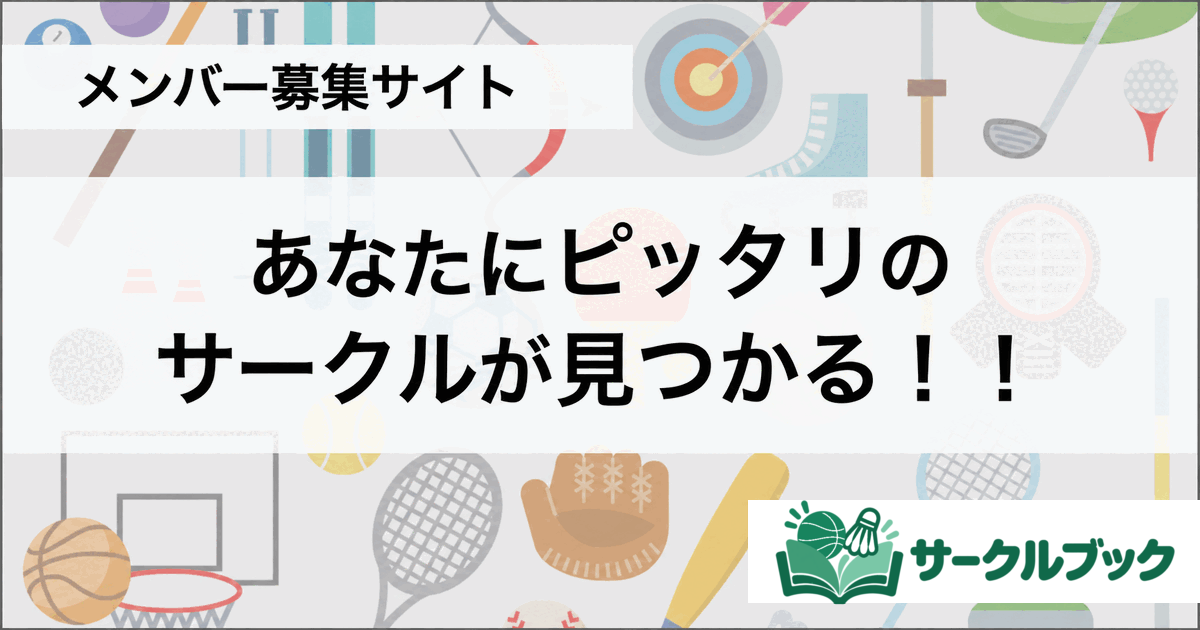
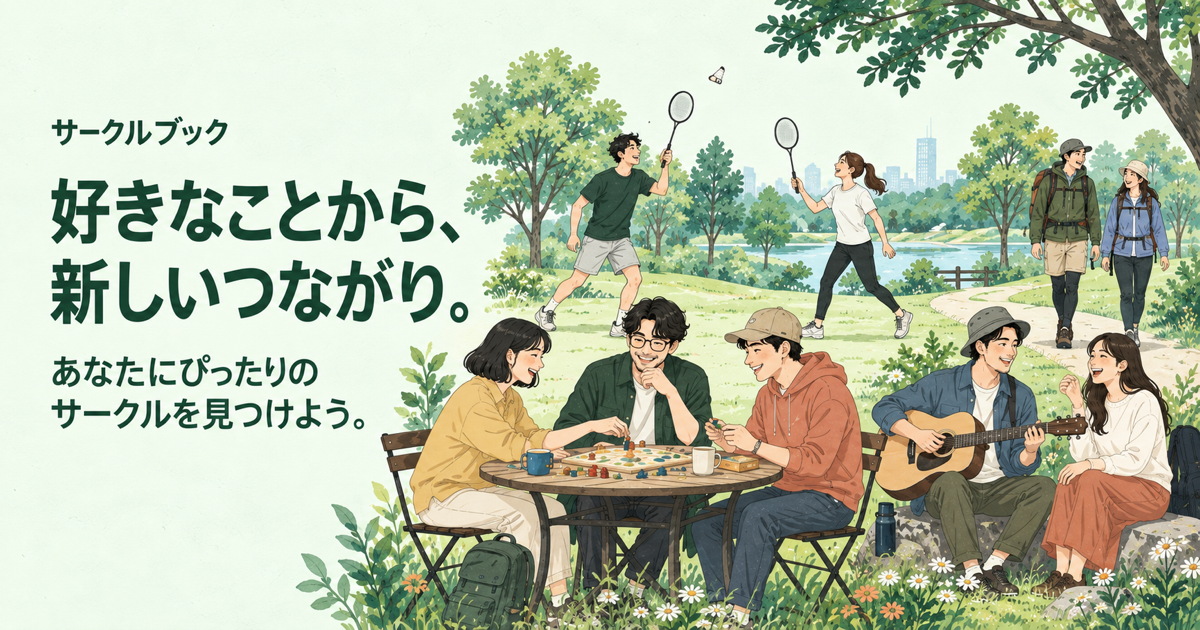
トップのファーストビューと共通OGP画像を更新する

diff --git a/app/assets/stylesheets/_home_portal.scss b/app/assets/stylesheets/_home_portal.scss
@@ -4,10 +4,15 @@
   padding: 24px 16px 48px;
   color: $cb-text;
   &__container { max-width: 1200px; margin: 0 auto; }
-  &__hero { padding: 12px 0 24px; text-align: center; }
-  &__hero h1 { font-size: clamp(24px, 4vw, 36px); line-height: 1.4; font-weight: 700; margin: 8px 0 12px; }
-  &__hero p { color: $cb-muted; font-size: 14px; line-height: 1.7; margin: 0; }
-  &__hero .home-portal__eyebrow { color: $cb-action-hover; font-weight: 700; }
+  &__hero { position: relative; height: clamp(440px, 125vw, 480px); overflow: hidden; margin: 0 0 24px; border-radius: 16px; background: #f0f8ed; text-align: center; }
+  &__hero-art { position: absolute; inset: 0; display: block; pointer-events: none; }
+  &__hero-art img { position: absolute; bottom: 0; left: 0; display: block; width: 100%; height: auto; }
+  &__hero-copy { position: relative; z-index: 1; max-width: 360px; margin: 0 auto; padding: 20px 16px; }
+  &__hero h1 { color: #214c38; font-size: 26px; line-height: 1.4; font-weight: 700; margin: 0 0 10px; }
+  &__hero p { color: #365647; font-size: 13px; line-height: 1.7; margin: 0; }
+  &__hero-search { display: inline-flex; align-items: center; justify-content: center; gap: 8px; min-height: 44px; margin-top: 14px; padding: 10px 22px; border-radius: 8px; background: $cb-action; color: white; font-size: 15px; font-weight: 700; }
+  &__hero-search svg { width: 18px; height: 18px; }
+  &__hero-search:hover, &__hero-search:focus { background: $cb-action-hover; color: white; }
   &__services { display: grid; grid-template-columns: repeat(2, minmax(0, 1fr)); gap: 12px; margin-bottom: 36px; }
   .home-service { min-height: 100px; padding: 16px 12px; border: 1px solid $cb-border; border-radius: 12px; background: $cb-surface; display: flex; flex-direction: column; align-items: center; justify-content: center; gap: 8px; color: $cb-text; font-size: 16px; font-weight: 700; text-align: center; line-height: 1.5; box-shadow: $cb-shadow-card; }
   .home-service > svg { width: 28px; height: 28px; margin: 0; }
@@ -92,6 +97,12 @@
   .event-results__card-bottom { gap: 4px; flex-wrap: wrap; }
   @media (min-width: 768px) {
     padding: 36px 24px 64px;
+    &__hero { display: flex; align-items: center; height: clamp(300px, 40vw, 480px); text-align: left; }
+    &__hero-art img { height: 100%; object-fit: contain; object-position: left center; }
+    &__hero-copy { width: 40%; max-width: 480px; margin: 0; padding: 24px clamp(24px, 3vw, 40px); }
+    &__hero h1 { font-size: clamp(26px, 3vw, 36px); }
+    &__hero p { max-width: 300px; font-size: 14px; }
+    &__hero-search { min-height: 48px; margin-top: 20px; }
     &__services { grid-template-columns: repeat(6, minmax(0, 1fr)); }
     &__item { flex-basis: 286px; }
     &__section { margin-bottom: 48px; }

diff --git a/test/helpers/ogp_meta_tags_test.rb b/test/helpers/ogp_meta_tags_test.rb
@@ -1,0 +1,74 @@
+require 'minitest/autorun'
+require 'action_view'
+require 'action_controller'
+require 'meta_tags'
+require 'nokogiri'
+require_relative '../../app/helpers/application_helper'
+require_relative '../../app/decorators/user_decorator'
+require_relative '../../app/decorators/blog_decorator'
+require_relative '../../app/decorators/schedule_decorator'
+
+class OgpMetaTagsTest < Minitest::Test
+  Upload = Struct.new(:url)
+
+  def setup
+    @view = ActionView::Base.empty
+    @view.extend ApplicationHelper
+    @view.extend MetaTags::ViewHelper
+    def @view.image_url(path)
+      "https://circle-book.com#{path}"
+    end
+    def @view.request
+      Struct.new(:original_url).new('https://circle-book.com/example')
+    end
+  end
+
+  def rendered_image
+    Nokogiri::HTML.fragment(@view.site_meta_tags).at_css('meta[property="og:image"]')['content']
+  end
+
+  def test_missing_and_blank_page_images_use_the_default
+    assert_equal @view.default_ogp_image_url, rendered_image
+    [nil, '', '  ', []].each do |image|
+      @view.set_meta_tags og: { image: image, title: 'ページ固有のタイトル' }
+      html = Nokogiri::HTML.fragment(@view.site_meta_tags)
+      assert_equal @view.default_ogp_image_url, html.at_css('meta[property="og:image"]')['content']
+      assert_equal 'ページ固有のタイトル', html.at_css('meta[property="og:title"]')['content']
+    end
+  end
+
+  def test_custom_image_is_preserved
+    @view.set_meta_tags og: { image: 'https://example.com/custom.jpg' }
+    assert_equal 'https://example.com/custom.jpg', rendered_image
+  end
+
+  def decorated_record(decorator, attributes)
+    record = Object.new.extend(decorator)
+    attributes.each { |key, value| record.define_singleton_method(key) { value } }
+    default = @view.default_ogp_image_url
+    record.define_singleton_method(:default_ogp_image_url) { default }
+    record
+  end
+
+  def test_circle_image_priority_and_missing_image_fallback
+    profile, header = Upload.new('profile.jpg'), Upload.new('header.jpg')
+    record = decorated_record(UserDecorator, pic_profile: profile, pic_header: header)
+    assert_equal 'profile.jpg', record.ogp_img
+    record.define_singleton_method(:pic_profile) { nil }
+    assert_equal 'header.jpg', record.ogp_img
+    record.define_singleton_method(:pic_header) { nil }
+    assert_equal @view.default_ogp_image_url, record.ogp_img
+  end
+
+  def test_blog_and_schedule_without_images_use_the_default
+    circle = Struct.new(:pic_profile, :pic_header).new(nil, nil)
+    blog = decorated_record(BlogDecorator, image_01: nil, user: circle)
+    schedule = decorated_record(ScheduleDecorator, top_image: nil)
+    assert_equal @view.default_ogp_image_url, blog.ogp_img
+    assert_equal @view.default_ogp_image_url, schedule.ogp_img
+    blog.define_singleton_method(:image_01) { Upload.new('blog.jpg') }
+    schedule.define_singleton_method(:top_image) { Upload.new('event.jpg') }
+    assert_equal 'blog.jpg', blog.ogp_img
+    assert_equal 'event.jpg', schedule.ogp_img
+  end
+end

diff --git a/app/helpers/application_helper.rb b/app/helpers/application_helper.rb
@@ -87,6 +87,16 @@ module ApplicationHelper
     public_controller && %w[index show dates day event prefecture event_prefecture category category_prefecture].include?(action_name)
   end
 
+  def default_ogp_image_url
+    image_url("/images/ogp.png?v=20261014-hobby-community")
+  end
+
+  def site_meta_tags
+    defaults = default_meta_tags
+    set_meta_tags og: { image: defaults[:og][:image] } if meta_tags[:og].blank? || meta_tags[:og][:image].blank?
+    display_meta_tags(defaults)
+  end
+
   def default_meta_tags
       {
         site: "サークルブック",
@@ -107,7 +117,7 @@ module ApplicationHelper
           description: :description,
           type: "website",
           url: request.original_url,
-          image: image_url("/images/ogp.png?v=20260921-green-clean"),
+          image: default_ogp_image_url,
           locale: "ja_JP"
         },
         twitter: {

diff --git a/app/decorators/user_decorator.rb b/app/decorators/user_decorator.rb
@@ -8,7 +8,7 @@ module UserDecorator
     elsif pic_header.present?
       self.pic_header.url
     else
-      image_url("/images/events/#{self.event.ruby}.jpg")
+      default_ogp_image_url
     end
   end
 

diff --git a/app/decorators/blog_decorator.rb b/app/decorators/blog_decorator.rb
@@ -10,7 +10,7 @@ module BlogDecorator
     elsif self.user.pic_header.present?
       self.user.pic_header.url
     else
-      image_url('/images/default.png')
+      default_ogp_image_url
     end
   end
 

diff --git a/app/decorators/schedule_decorator.rb b/app/decorators/schedule_decorator.rb
@@ -6,7 +6,7 @@ module ScheduleDecorator
     if top_image.present?
       self.top_image.url
     else
-      image_url("/images/schedule_ogp.jpg")
+      default_ogp_image_url
     end
   end
 
